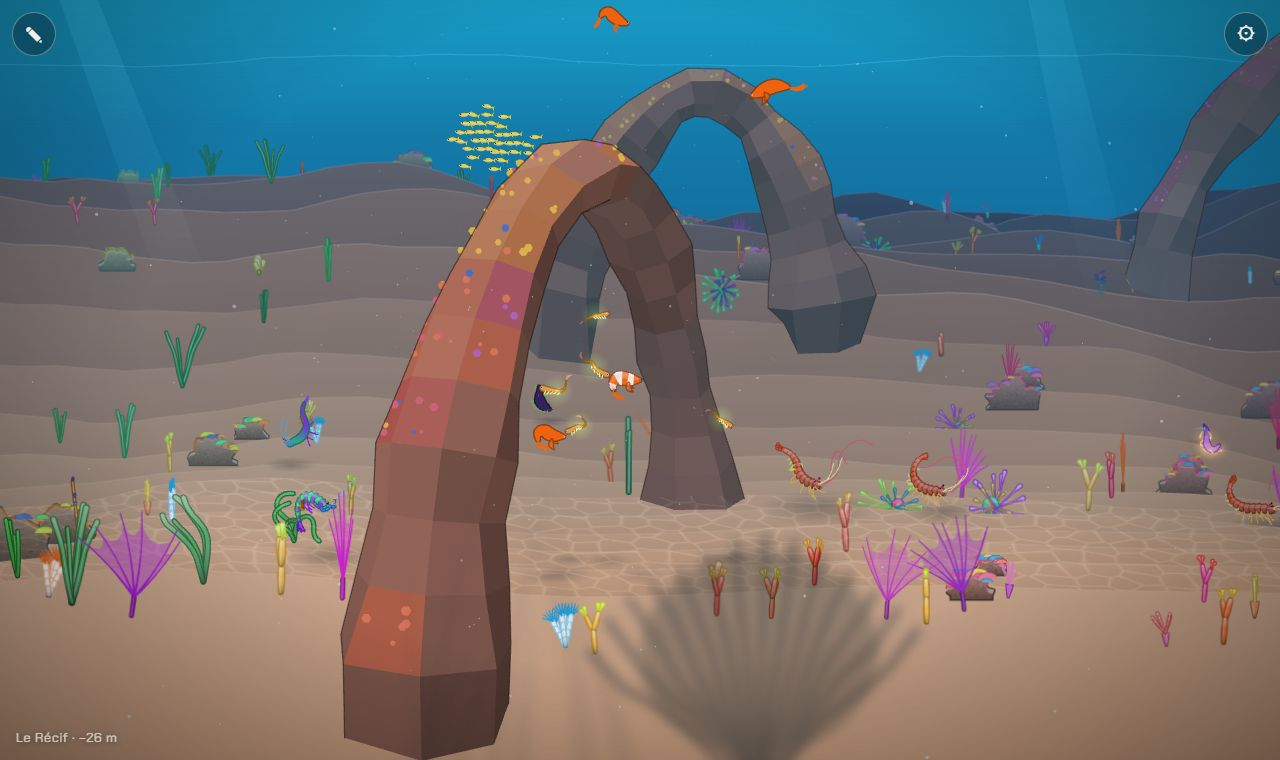
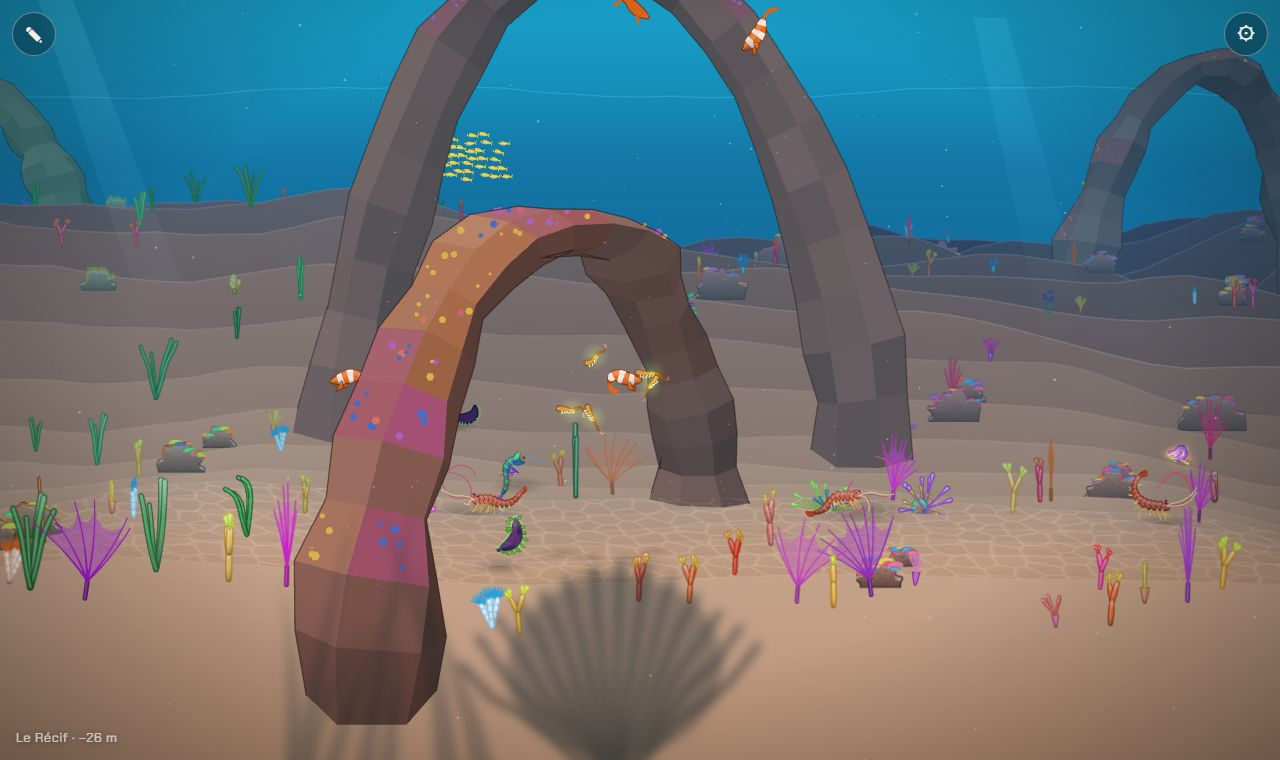
La Lignée: the reliefs keep clear of the set pieces by place and depth (frost aside), so the Glacier gets an ice ledge between its cliffs and the faults stay in the Fosse; report, entry and images follow

diff --git a/src/monde/relief.ts b/src/monde/relief.ts
@@ -424,8 +424,8 @@ const PLANS: Record<string, Plan[]> = {
   carcasse: [{ kind: 'surplomb', every: 700, lane: 0.4, front: 0, back: 0.6 }],
   // basalt columns far away among the chimneys
   sources: [{ kind: 'pilier', every: 1000, lane: 0, front: 0.1, back: 0.9 }],
-  // crevasses and ledges of ice
-  glacier: [{ kind: 'faille', every: 1700, lane: 1, front: 0, back: 0 }, { kind: 'surplomb', every: 600, lane: 0.6, front: 0, back: 0.4 }],
+  // ledges of ice between the cliffs of glacier.ts
+  glacier: [{ kind: 'surplomb', every: 600, lane: 0.7, front: 0, back: 0.3 }],
   // (the Jardin has no floor in sight)
   // the trench: the floor cracks open in the dark
   fosse: [{ kind: 'faille', every: 1000, lane: 1, front: 0, back: 0 }]
@@ -469,51 +469,56 @@ function build(kind: ReliefKind, slot: Slot, x: number, R: R01, floor: Floor, en
   return H < 200 ? null : overhang(x, zf, zf + r(200, 420), H, r(160, 240) * s, r(140, 220) * s, r(70, 100) * s, dir, floor, encrust, seed);
 }
 
+/** a set piece to keep clear: where it stands, and the room it needs around it */
+export interface Keep { x: number; z: number; r: number; }
+
 /**
  * Lay out the reliefs of every chapter (biomes along x, the world ending at
- * xEnd), away from the set pieces at `avoid` (x), the faults away from the
- * `big` ones only. The faults come first: the other reliefs stand on the
- * carved floor.
+ * xEnd), clear of the set pieces. The faults come first (away from the big
+ * pieces: what is small may well stand at the bottom of one), the other
+ * reliefs stand on the carved floor.
  */
-export function initReliefs(biomes: readonly { id: string; x0: number; encrust: number }[], xEnd: number, floor: Floor, avoid: number[] = [], big: number[] = avoid): void {
+export function initReliefs(biomes: readonly { id: string; x0: number; encrust: number }[], xEnd: number, floor: Floor, keep: readonly Keep[] = []): void {
   faults = [];
   reliefs.length = 0;
   const R = rng(8123), span = (i: number): [number, number] => [biomes[i].x0, i + 1 < biomes.length ? biomes[i + 1].x0 : xEnd];
-  const clear = (x: number, m: number, l = avoid) => l.every((a) => Math.abs(a - x) > m);
+  // a box x0..x1, z0..z1 clear of every piece
+  const clear = (x0: number, x1: number, z0: number, z1: number, l: readonly Keep[] = keep) =>
+    l.every((k) => k.x < x0 - k.r || k.x > x1 + k.r || k.z < z0 - k.r || k.z > z1 + k.r);
+  const big = keep.filter((k) => k.r >= 100);
   biomes.forEach((b, i) => {
     const [a, e] = span(i);
     for (const p of PLANS[b.id] || []) {
       if (p.kind !== 'faille') continue;
       for (let x = a + 400 + R() * p.every * 0.5; x < e - 400; x += p.every * (0.6 + 0.8 * R())) {
-        if (clear(x, 450, big)) faults.push({ x, w: 280 + R() * 160, d: 380 + R() * 320, seed: seedOf(Math.round(x), 17) });
+        const w = 280 + R() * 160, d = 380 + R() * 320;
+        if (clear(x - w * 0.7, x + w * 0.7, -200, 1000, big)) faults.push({ x, w, d, seed: seedOf(Math.round(x), 17) });
       }
     }
   });
-  const inFault = (x: number) => faults.some((f) => Math.abs(f.x - x) < f.w + 160);
-  const free = (x: number) => clear(x, 320, big) && clear(x, 140) && !inFault(x);
+  const inFault = (r: Relief) => faults.some((f) => r.x1 > f.x - f.w * 0.7 - 60 && r.x0 < f.x + f.w * 0.7 + 60);
+  const fits = (r: Relief) => clear(r.x0, r.x1, r.z0, r.z1) && !inFault(r);
   biomes.forEach((b, i) => {
     const [a, e] = span(i);
     for (const p of PLANS[b.id] || []) {
       if (p.kind === 'faille') continue;
-      // in the swimming plane, one every so often, where it fits: on a gentle slope, away from the set pieces
+      // in the swimming plane, one every so often, where it fits: on a gentle slope, clear of the set pieces and the faults
       const gap = Math.max(700, p.every / (p.lane + p.front + p.back) / (p.lane || 1));
       if (p.lane > 0) {
         for (let x = a + 400 + R() * gap * 0.5; x < e - 400; x += gap * (0.75 + 0.5 * R())) {
           for (let k = 0; k < 6; k++) {
             const xx = x + k * 90;
-            if (xx > e - 400 || Math.abs(floor(xx - 150, 0) - floor(xx + 150, 0)) > 150 || !free(xx)) continue;
+            if (xx > e - 400 || Math.abs(floor(xx - 150, 0) - floor(xx + 150, 0)) > 150) continue;
             const r = build(p.kind, 'lane', xx, R, floor, b.encrust);
-            if (r) { reliefs.push(r); x = xx; break; }
+            if (r && fits(r)) { reliefs.push(r); x = xx; break; }
           }
         }
       }
       // in front of it and behind it
       if (p.front + p.back <= 0) continue;
       for (let x = a + 300 + R() * p.every; x < e - 300; x += (p.every / (p.front + p.back)) * (0.6 + 0.8 * R())) {
-        const slot: Slot = R() * (p.front + p.back) < p.front ? 'front' : 'back';
-        if (slot === 'front' && !free(x)) continue;
-        const r = build(p.kind, slot, x, R, floor, b.encrust);
-        if (r) reliefs.push(r);
+        const r = build(p.kind, R() * (p.front + p.back) < p.front ? 'front' : 'back', x, R, floor, b.encrust);
+        if (r && fits(r)) reliefs.push(r);
       }
     }
   });

diff --git a/src/monde/relief.test.ts b/src/monde/relief.test.ts
@@ -74,7 +74,7 @@ describe('the meshes', () => {
 });
 
 describe('the reliefs of the world', () => {
-  beforeAll(() => initReliefs(BIOMES, X1, floorAt, [], []));
+  beforeAll(() => initReliefs(BIOMES, X1, floorAt));
 
   it('gives the chapters at least three kinds of relief, and sets chapters apart by them', () => {
     const kinds = new Set<string>(reliefs.map((r) => r.kind));
@@ -90,7 +90,7 @@ describe('the reliefs of the world', () => {
 
   it('lays the same world every time', () => {
     const a = reliefs.map((r) => `${r.kind}${Math.round(r.x)}`).join();
-    initReliefs(BIOMES, X1, floorAt, [], []);
+    initReliefs(BIOMES, X1, floorAt);
     expect(reliefs.map((r) => `${r.kind}${Math.round(r.x)}`).join()).toBe(a);
   });
 

diff --git a/src/monde/main.ts b/src/monde/main.ts
@@ -91,7 +91,8 @@ input.zoomMul = 900 / settings.dist;
 // ----- world ----- //
 
 const decor: Decor[] = makeDecor();
-initReliefs(BIOMES, X1, floorAt, decor.map((d) => d.x), decor.filter((d) => d.kind !== 'seep').map((d) => d.x));
+// the reliefs keep clear of the set pieces (a tuft of frost may end up under one)
+initReliefs(BIOMES, X1, floorAt, decor.filter((d) => d.kind !== 'frost').map((d) => ({ x: d.x, z: d.z, r: d.kind === 'seep' ? 40 : d.kind === 'ice' ? 120 : 220 })));
 const vents = decor.filter((d) => d.kind === 'vent');
 const rocks: RockX[] = makeRocks().sort((a, b) => a.x - b.x);
 /** first rock at or after x (the rocks are sorted along x) */

diff --git a/changes/unreleased/reliefs-composes-arches/report.md b/changes/unreleased/reliefs-composes-arches/report.md
@@ -11,23 +11,23 @@ Quatre types de relief, placés chapitre par chapitre, qui passent devant, en tr
   - les **failles** : des tranchées creusées dans le fond lui-même (`carve`, ajouté à `floorAt`), de l'avant jusqu'au loin, qui se referment au fond de la scène. On peut y plonger ;
   - les **collisions** : la coupe d'un relief par le plan z d'une créature (segments, en cache par 8 unités de z), dont on la repousse en gardant sa vitesse le long de la paroi (`pushOut`, `bump`, 1,75 µs par appel) ;
   - la **vie dessus** : `groundAt` fait pousser sur le sommet d'un relief une plante dont le pied tombe dedans, `solidAt` écarte les rochers qui tomberaient dedans ;
-  - la **disposition** (`initReliefs`, table `PLANS` par id de chapitre) : d'abord les failles, puis, dans le plan de nage, un relief à intervalles réguliers là où le fond est doux et loin des décors (cheminées, carcasse, épave, suintements), puis ceux de devant et de derrière. Le plan de nage n'est jamais fermé : il reste toujours au moins 90 unités de passage, dessus ou dessous (testé).
+  - la **disposition** (`initReliefs`, table `PLANS` par id de chapitre) : d'abord les failles, puis, dans le plan de nage, un relief à intervalles réguliers là où le fond est doux, puis ceux de devant et de derrière ; aucun ne prend la place d'un décor (une zone en x et en z par décor : large pour les cheminées, les os de la baleine et l'épave, plus petite pour la glace et les suintements, le givre ne compte pas) ni ne tombe dans une faille. Le plan de nage n'est jamais fermé : il reste toujours au moins 90 unités de passage, dessus ou dessous (testé).
 - **`src/monde/relief-draw.ts`** (dessin, WebGL et Canvas 2D) : chaque relief est projeté sommet par sommet ; les faces tournées vers l'œil sont peintes de loin en près, éclairées d'en haut (facettes, strates sur les piliers, plus sombres près du fond), avec un contour d'encre sur la silhouette et le brouillard de l'eau. Le relief est coupé en tranches le long de z (le plan de nage est toujours une limite) : chaque tranche est un élément de la liste triée de la scène. Là où le chapitre est couvert de vie (`encrust`), des plaques de polypes couvrent le haut des reliefs. Ce qui vient trop près de l'œil s'efface.
 - **Par chapitre** (nouvelle carte des 10 chapitres) :
 
   | Chapitre | Reliefs | Dans le plan de nage |
   | --- | --- | --- |
   | La Nurserie | quelques arches au loin | rien (le chapitre reste ouvert) |
-  | Le Récif | arches couvertes de polypes, derrière | arches à traverser (x ≈ 3960, 5310, 6510) |
-  | La Forêt | piliers, comme une cathédrale, devant et derrière | piliers (x ≈ 7940, 9600) |
+  | Le Récif | arches couvertes de polypes, devant et derrière | arches à traverser (x ≈ 4000, 5130, 6530) |
+  | La Forêt | piliers, comme une cathédrale, devant et derrière | piliers (x ≈ 7870, 9230) |
   | La Grotte | rien : elle a sa voûte et ses piliers (`grotte.ts`) | — |
   | La Carcasse | surplombs au loin, autour de la baleine | rien : la baleine (`carcasse.ts`) occupe le plan de nage |
   | Les Sources | colonnes de basalte au loin, entre les cheminées | rien |
-  | Le Glacier | crevasse, corniches de glace | une crevasse (x ≈ 20080), des corniches (x ≈ 19410, 21080) |
+  | Le Glacier | des corniches de glace, entre les falaises de `glacier.ts` | une corniche (x ≈ 20870) |
   | Le Jardin de méduses | rien : pas de fond | — |
-  | La Fosse | failles dans le noir | failles (x ≈ 26040, 27080, 27990) |
+  | La Fosse | failles, visibles seulement dans la lumière du nageur (le noir total du chapitre) | failles (x ≈ 26000, 27000, 27680) |
 
-- **Comment le voir** : ⚙ → Voyage → Récif, Forêt, Glacier ; ou `monde.teleport(4000, 520)` (arches du Récif), `monde.teleport(7818, 640)` (un pilier qui cache), `monde.teleport(20076, 1900)` (dans la crevasse du Glacier), `monde.teleport(19250, 1690)` (sous une corniche du Glacier), `monde.teleport(14700, 1350)` (la baleine de la Carcasse dans son creux de surplombs). La couche `relief` de `monde.skip` les retire pour comparer.
+- **Comment le voir** : ⚙ → Voyage → Récif, Forêt, Glacier ; ou `monde.teleport(4060, 520)` (les arches du Récif, une voûte en travers du chemin), `monde.teleport(8348, 660)` (un pilier qui cache), `monde.teleport(21040, 1790)` (sous la corniche du Glacier), `monde.teleport(27003, 3500)` (dans une faille de la Fosse), `monde.teleport(14700, 1350)` (la baleine de la Carcasse dans son creux de surplombs). La couche `relief` de `monde.skip` les retire pour comparer.
 - **Mesures** (Chrome Windows, 1280 × 760) : 60 img/s en WebGL avec ou sans reliefs, dans le Récif et la Forêt (écart de rendu sous le bruit de mesure, de 0,1 à 2 ms selon les essais). En Canvas 2D (`?gl=0`), 44 ms par image contre 39 sans reliefs dans le Récif.
 - **Branchements** : `floorAt` ajoute `carve(x, z)` (`biomes.ts`) ; `main.ts` appelle `initReliefs` après les décors, `bump(cr)` dans `collide`, `pushReliefs` dans le tri de la scène ; `world.ts` fait pousser les plantes sur les reliefs (`groundAt`) et n'y pose pas de rochers (`solidAt`).
 - **Doc** : section « Les reliefs composés » dans `docs/direction-artistique.md`.
@@ -37,7 +37,6 @@ Quatre types de relief, placés chapitre par chapitre, qui passent devant, en tr
 ![Après : les arches du Récif, au loin et en travers du chemin](img/recif-apres.jpg)
 ![La traversée : le poisson-clown passe sous la voûte, entre le pied avant et le pied arrière](img/traversee.jpg)
 ![La Forêt : un pilier du premier rang cache le nageur](img/pilier-cache.jpg)
-![Le Glacier : une crevasse, le nageur y plonge](img/glacier-crevasse.jpg)
 ![Le Glacier : à l'abri sous une corniche de glace](img/glacier-corniche.jpg)
 ![La Carcasse : la baleine repose dans un creux de surplombs](img/carcasse-creux.jpg)
 
@@ -54,7 +53,8 @@ Aucune question structurante posée à l'utilisateur : tout est tranché seul (o
 | Le tri avec la scène | Des tranches de 150 en z, le plan de nage toujours en limite ; une tranche qui touche le plan de nage se trie contre ce qui nage près de l'œil | Un seul élément par relief se trie mal (une arche est devant et derrière le nageur) ; une face par élément coûterait trop en canvas |
 | Le pied des reliefs | Posé sur le fond (4 unités dedans), sommet par sommet | Un pied enfoui se voyait par-dessus les rangées du sol proches (défaut de tri) |
 | Où placer les reliefs | Table `PLANS` par id de chapitre ; dans le plan de nage à intervalles réguliers là où ils tiennent, devant et derrière au hasard | Chaque chapitre a sûrement les siens (le hasard seul en privait parfois un chapitre) ; la table se règle sans toucher `biomes.ts` |
-| Quel relief pour quel chapitre | Récif : arches ; Forêt : piliers ; Carcasse : surplombs ; Sources : colonnes au loin ; Glacier : crevasses et corniches ; Fosse : failles ; Nurserie : arches lointaines ; rien dans la Grotte et le Jardin | Suit la trame (cathédrale d'algues, ville de corail, fosse) ; la Grotte a déjà sa voûte, le Jardin n'a pas de fond |
+| Quel relief pour quel chapitre | Récif : arches ; Forêt : piliers ; Carcasse : surplombs au loin ; Sources : colonnes au loin ; Glacier : corniches de glace ; Fosse : failles ; Nurserie : arches lointaines ; rien dans la Grotte et le Jardin | Suit la trame (cathédrale d'algues, ville de corail, fosse) ; la Grotte a déjà sa voûte, le Jardin n'a pas de fond, le Glacier ses falaises et sa langue froide (`glacier.ts`) |
+| La place des décors | Une zone réservée en x et en z par décor, d'un rayon selon son type ; le givre ne compte pas ; les failles n'évitent que les grands décors | Un filtre sur x seul excluait des chapitres entiers (le Glacier, couvert de givre et de falaises au fond) ; une touffe de givre sous une roche ne se voit pas |
 | La vie sur les reliefs | Une teinte légère de la couleur du chapitre et des polypes, sur ce qui fait face au ciel | Des faces entières colorées faisaient un damier ; les polypes se lisent comme une croûte de corail |
 | Le rendu | Facettes éclairées d'en haut, strates, contour d'encre sur la silhouette | Se lit comme de la roche taillée, reste cohérent avec l'encre des animaux ; pas de dégradé par sommet en canvas |
 | Un relief trop près de l'œil | Il s'efface selon sa profondeur | Un pilier du premier rang remplirait l'écran quand on zoome |
@@ -74,7 +74,8 @@ Aucune question structurante posée à l'utilisateur : tout est tranché seul (o
 - **Tri** : un élément par relief (faux pour l'arche en travers) ; un élément par face (exact, mais des centaines de tracés en canvas) ; une clé par tranche sans règle pour le plan de nage (le nageur passait derrière le pied arrière).
 - **Pied** : enfoui dans le fond (se voyait par-dessus les rangées proches) ; coupé exactement par la ligne du sol (plus juste, mais le sol est dessiné en lignes droites entre ses points : même résultat pour bien plus de calcul).
 - **Placement** : tirage au hasard du rang (dans le plan, devant, derrière) pour chaque relief (un chapitre pouvait n'en avoir aucun dans le plan de nage) ; positions écrites à la main (à refaire à chaque changement de carte) ; un champ `relief` dans chaque chapitre de `biomes.ts` (conflit avec la carte des 10 chapitres, refaite en même temps).
-- **Chapitres** : des voûtes et galeries dans la Grotte (déjà faites par le chantier de la Grotte, en double) ; des surplombs au Tombant et des failles au Crépuscule (ces chapitres n'existent plus dans la nouvelle carte) ; des failles aux Sources (les cheminées occupent tout le chapitre).
+- **Chapitres** : des voûtes et galeries dans la Grotte (déjà faites par le chantier de la Grotte, en double) ; des surplombs au Tombant et des failles au Crépuscule (ces chapitres n'existent plus dans la nouvelle carte) ; des failles aux Sources (les cheminées occupent tout le chapitre) ; une crevasse au Glacier (essayée : très belle, mais les falaises de glace du fond s'y enfonceraient) ; des surplombs autour de la baleine dans le plan de nage (ils la cacheraient).
+- **Place des décors** : un filtre sur x seul (excluait le Glacier entier) ; ignorer les décors (des roches à travers les cheminées et les os) ; une boîte exacte par décor (il faudrait la taille de chaque image, décidée dans le module de chaque décor).
 - **Vie** : des faces entières de la couleur du corail (un damier) ; des plantes simulées sur chaque relief (chères) ; rien (le Récif perdait son corail sur les arches).
 - **Rendu** : un dégradé par sommet en WebGL (plus lisse, mais différent du canvas) ; des textures cuites plaquées (détail, mais coût et mémoire) ; pas de contour (les reliefs se fondaient dans le fond).
 - **Près de l'œil** : les couper net (apparition brusque) ; ne jamais placer de relief devant le plan de nage (plus de « pilier qui cache »).
@@ -88,13 +89,14 @@ Aucune question structurante posée à l'utilisateur : tout est tranché seul (o
 - Seule la **racine** d'une créature bute (comme pour le fond et les rochers) : une queue peut passer dans la roche.
 - **Canvas 2D** : environ 5 ms de plus par image au Récif, et de fines coutures claires entre les facettes (l'anticrénelage du canvas entre deux tracés voisins) ; le WebGL (par défaut) n'a ni l'un ni l'autre. Un trait de la couleur des faces les couvrirait, pour un tracé de plus par couleur.
 - `drawRow` (`main.ts`) prend la couleur du sol à la verticale de la caméra : au-dessus d'une faille, elle vient du fond de la faille (un peu plus sombre au loin). Rien de visible aux essais ; à reprendre avec un fond non creusé si besoin.
-- La **Grotte** a sa propre voûte (`ceilAt`, `grotte.ts`) : elle pourrait devenir un relief, et ses piliers aussi. Le **Glacier** : crevasses et corniches à harmoniser avec les parois de glace du chantier `decor-glacier` quand il sera fusionné ; la **Carcasse** : les surplombs évitent les os de la baleine (`CARCASSE.pieces` dans les décors) et restent donc au loin ; les corniches à l'abri desquelles se glisser sont au Glacier.
+- La **Grotte** a sa propre voûte (`ceilAt`, `grotte.ts`) : elle pourrait devenir un relief, et ses piliers aussi. Au **Glacier**, une seule corniche trouve sa place entre les falaises et les suintements. À la **Carcasse**, les surplombs évitent les os de la baleine (`CARCASSE.pieces` dans les décors) et restent donc au loin.
+- Les **failles** de la Fosse ne se voient que dans la lumière du nageur : une faille bien visible manque depuis que le Crépuscule a quitté la carte (une crevasse au Glacier, si ses falaises s'en écartent, ou une faille en bord des Sources).
 - Les **grottes** comme type de relief (une galerie qu'on traverse) ne sont pas faites ici : la Grotte les a à sa façon. Les **failles** ne font pas encore d'obstacle (étape 3).
 - Pas de **son** pour les reliefs (écho sous une voûte, par exemple).
 
 ## Risques de fusion
 
-- `src/monde/main.ts` : deux imports, `initReliefs(...)` juste après `makeDecor()`, `bump(cr)` à la fin de la boucle des rochers de `collide` (la Grotte ajoute aussi deux lignes dans `collide` : garder les deux), `pushReliefs(...)` après la boucle des décors dans `render`.
+- `src/monde/main.ts` : deux imports, `initReliefs(...)` juste après `makeDecor()` (avec un rayon par type de décor : `seep`, `frost`, `ice`, les autres), `bump(cr)` à la fin de la boucle des rochers de `collide` (la Grotte ajoute aussi deux lignes dans `collide` : garder les deux), `pushReliefs(...)` après la boucle des décors dans `render`.
 - `src/monde/biomes.ts` : un import, `+ carve(x, z)` dans le `return` de `floorAt` (à garder si un voisin réécrit `floorAt`).
 - `src/monde/world.ts` : un import, `groundAt` dans `growPlant2`, deux conditions `solidAt` dans `makeRocks`.
 - `src/monde/foreground.test.ts` : deux ids de chapitre.

diff --git a/docs/direction-artistique.md b/docs/direction-artistique.md
@@ -44,7 +44,7 @@ Les formes de terrain qu'une ligne de fond ne sait pas faire (`src/monde/relief.
 - **Devant, en travers et derrière le plan de nage** : chaque relief est un volume en vraie perspective (des facettes éclairées d'en haut, un contour d'encre, le brouillard de l'eau), trié tranche par tranche avec le reste de la scène. On passe derrière le pied avant d'une arche, sous sa voûte, devant son pied arrière ; un pilier du premier rang cache le nageur un instant. Ce qui vient trop près de l'œil s'efface.
 - **Solides** : le nageur et les animaux butent sur la coupe du relief à leur profondeur, et glissent le long. Les failles sont dans le fond (`floorAt`), donc déjà solides. Le plan de nage n'est jamais fermé : on passe dessus ou dessous.
 - **La vie dessus** : une plante dont le pied tombe dans un relief pousse sur son sommet, un rocher n'y est pas posé. Là où le chapitre est couvert de vie (`encrust`), des plaques de polypes couvrent le haut des reliefs : les arches du Récif.
-- **Par chapitre** (`PLANS`, par id de chapitre) : la Nurserie reste ouverte (quelques arches au loin) ; le Récif a ses arches à traverser ; la Forêt ses piliers, comme une cathédrale ; la Carcasse repose dans un creux de surplombs ; les Sources ont des colonnes de basalte au loin ; le Glacier ses crevasses et ses corniches ; la Fosse ses failles dans le noir. La Grotte a sa propre voûte (`grotte.ts`), le Jardin n'a pas de fond.
+- **Par chapitre** (`PLANS`, par id de chapitre) : la Nurserie reste ouverte (quelques arches au loin) ; le Récif a ses arches à traverser ; la Forêt ses piliers, comme une cathédrale ; la Carcasse repose dans un creux de surplombs ; les Sources ont des colonnes de basalte au loin ; le Glacier des corniches de glace entre ses falaises ; la Fosse ses failles, qu'on ne voit que dans sa propre lumière. La Grotte a sa propre voûte (`grotte.ts`), le Jardin n'a pas de fond.
 - **Coût** : une fraction de milliseconde par image en WebGL, quelques millisecondes en canvas (le repli). Couche `relief` de `monde.skip` pour comparer.
 
 ## Une palette par chapitre

diff --git a/changes/unreleased/reliefs-composes-arches/entry.md b/changes/unreleased/reliefs-composes-arches/entry.md
@@ -1,13 +1,12 @@
 ---
 type: new
 title: Des arches, des piliers et des failles
-pitch: Le fond de la mer prend du relief : passe sous les arches du Récif, glisse entre les piliers de la Forêt, plonge dans la crevasse du Glacier 🐚
+pitch: Le fond de la mer prend du relief : passe sous les arches du Récif, glisse entre les piliers de la Forêt, abrite-toi sous les corniches du Glacier 🐚
 audience: players
 images:
   - img/traversee.jpg
   - img/recif-apres.jpg
   - img/pilier-cache.jpg
-  - img/glacier-crevasse.jpg
   - img/glacier-corniche.jpg
 ---
-Chaque chapitre a maintenant sa forme de terrain. Sur le Récif, de grandes arches couvertes de polypes enjambent ton chemin : tu passes derrière un pied, sous la voûte, puis devant l'autre. Dans la Forêt, des piliers de roche montent entre le kelp comme dans une cathédrale, et ceux du premier rang te cachent un instant quand tu passes derrière. Au Glacier, des corniches de glace font des abris où te glisser, et le fond s'ouvre sur une crevasse où tu peux plonger ; dans la Fosse, sur des failles perdues dans le noir. Ces roches sont solides, tu glisses le long, mais il reste toujours un passage, par-dessus ou par-dessous.
+Chaque chapitre a maintenant sa forme de terrain. Sur le Récif, de grandes arches couvertes de polypes enjambent ton chemin : tu passes derrière un pied, sous la voûte, puis devant l'autre. Dans la Forêt, des piliers de roche montent entre le kelp comme dans une cathédrale, et ceux du premier rang te cachent un instant quand tu passes derrière. Au Glacier, des corniches de glace font des abris où te glisser ; dans la Fosse, le fond s'ouvre sur des failles que seule ta lumière révèle, et tu peux y plonger. Ces roches sont solides, tu glisses le long, mais il reste toujours un passage, par-dessus ou par-dessous.
